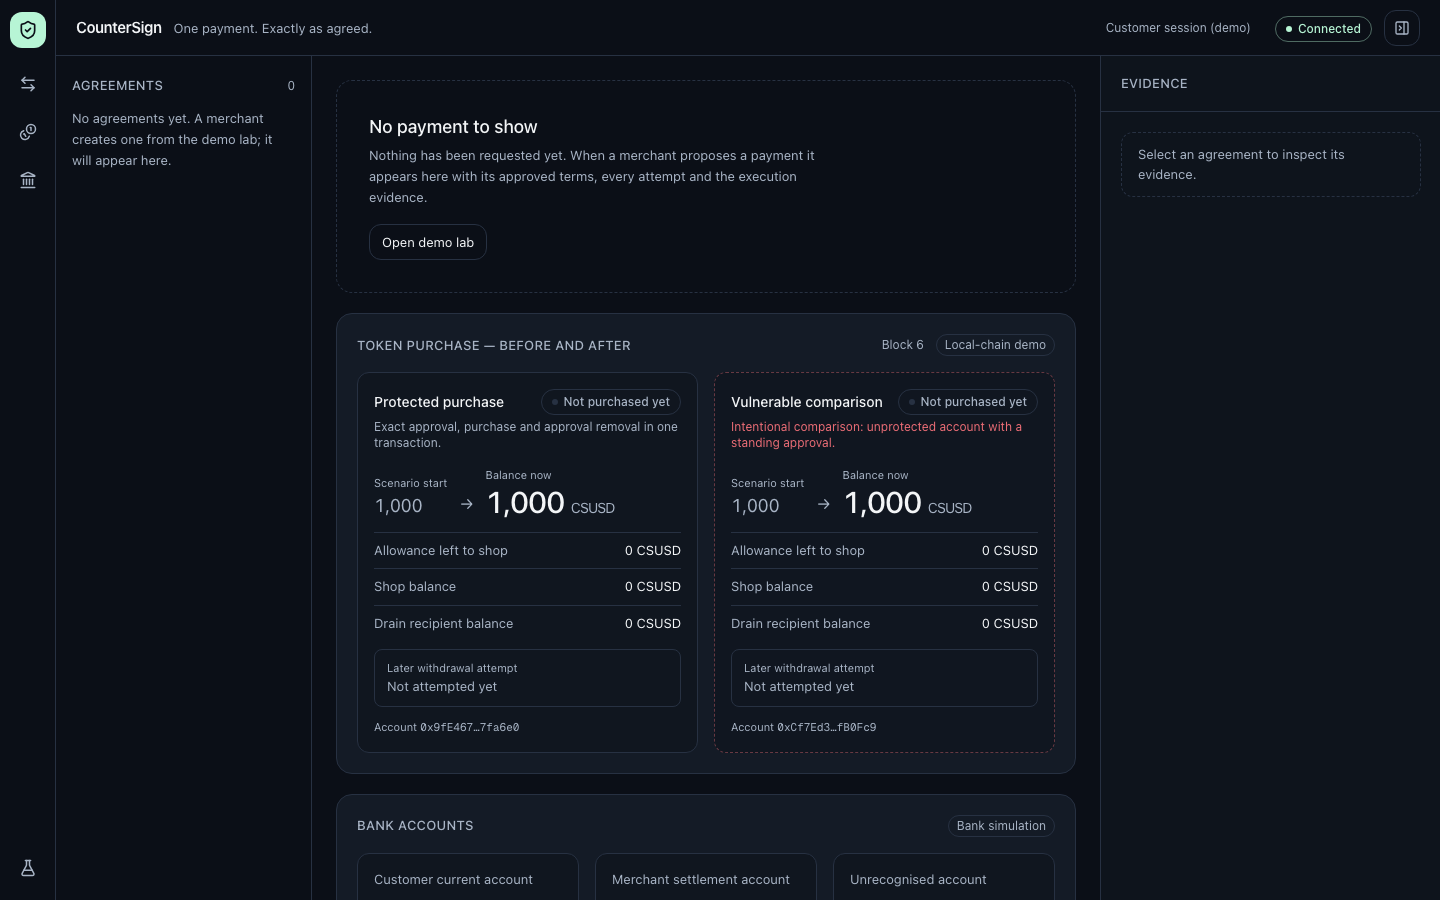
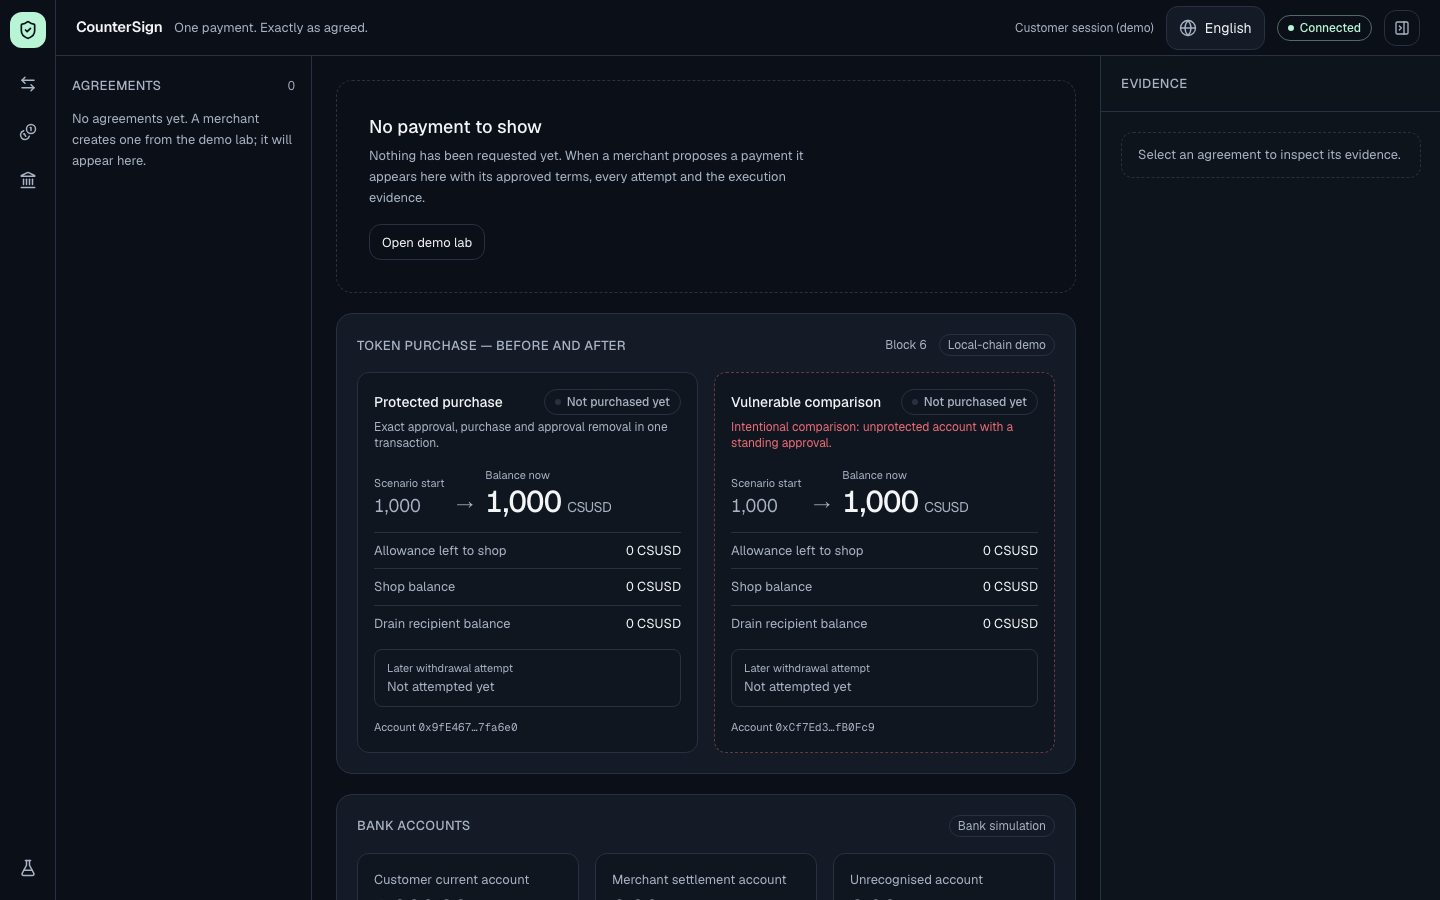
verify: results for main 316138b; expandAll skips dialog triggers

diff --git a/e2e/helpers.ts b/e2e/helpers.ts
@@ -140,8 +140,9 @@ export async function expectUnobscured(page: Page, locator: ReturnType<Page["loc
 /** Open every collapsed disclosure so evidence text becomes readable. */
 export async function expandAll(page: Page) {
   for (let pass = 0; pass < 3; pass++) {
+    // disclosures only: dialog triggers (aria-haspopup, e.g. the language selector) are not evidence;
     // main/body scope keeps the Next.js dev-tools indicator (nextjs-portal) out of it
-    const closed = page.locator('body > :not(nextjs-portal) [aria-expanded="false"]:visible, body > :not(nextjs-portal) details:not([open]) > summary:visible');
+    const closed = page.locator('body > :not(nextjs-portal) [aria-expanded="false"]:not([aria-haspopup]):visible, body > :not(nextjs-portal) details:not([open]) > summary:visible');
     const n = await closed.count();
     if (!n) break;
     for (let i = 0; i < n; i++) await closed.nth(0).click({ timeout: 2000 }).catch(() => {});

diff --git a/e2e/truthful-states.e2e.ts b/e2e/truthful-states.e2e.ts
@@ -106,6 +106,9 @@ test("10 disconnected: offline is shown as disconnected, never as success; recon
   await desk.page.goto("/command"); await ph.page.goto(pair.approvePath);
   await ph.page.getByRole("button", { name: /approve this payment/i }).click();
   await expect.poll(async () => (await getView(id)).state).toBe("approved");
+  // wait until both views have polled the approved state ("Approved" alone is also a static stage label)
+  await expect(ph.page.locator("body")).not.toContainText(/awaiting your approval/i);
+  await expect(desk.page.locator("body")).not.toContainText(/awaiting your approval/i);
   await expect(ph.page.locator("body")).toContainText(/approved/i);
 
   await ph.context.setOffline(true); await desk.context.setOffline(true);

diff --git a/docs-verify/RESULTS.md b/docs-verify/RESULTS.md
@@ -1,20 +1,42 @@
 # CounterSign acceptance results (worker E, independent verification)
 
-Last updated: 2026-11-21 08:30 UTC. `main` tested: `dd3801b` (base commit, stubs only).
+Last updated: 2026-11-21 08:45 UTC. `main` tested: `316138b` (tree = `w/verify` with `origin/main` 316138b merged; only verification files differ).
 
-No run against an implementation yet: at `dd3801b` every port is a `NOT_IMPLEMENTED` stub, so all checks are NOT RUN.
+Server: `pnpm demo` via `bash docs-verify/run.sh` (Next dev server on :3000 + Anvil on :8545, health `chain.available=true, chainId=31337`).
+
+Commands:
+
+- V = `ACCEPTANCE=1 CS_BASE_URL=http://localhost:3000 pnpm exec vitest run tests/acceptance` → 37 passed, 0 failed, 0 skipped
+- P = `BASE_URL=http://localhost:3000 pnpm exec playwright test` → 12 passed (54.0s)
+- `pnpm typecheck` → clean
 
 | # | Check | Result | Evidence | main SHA |
 |---|---|---|---|---|
-| 1 | Approved legitimate bank transfer settles once | NOT RUN | stubs only | dd3801b |
-| 2 | Recipient/amount mutations move no money | NOT RUN | stubs only | dd3801b |
-| 3 | Expired authorization rejected | NOT RUN | stubs only | dd3801b |
-| 4 | Replay/concurrent → one debit | NOT RUN | stubs only | dd3801b |
-| 5 | Merchant/lab capability cannot approve | NOT RUN | stubs only | dd3801b |
-| 6 | Protected crypto purchase completes for agreed amount | NOT RUN | stubs only | dd3801b |
-| 7 | Residual allowance 0; later drain fails | NOT RUN | stubs only | dd3801b |
-| 8 | Vulnerable comparison: same attack succeeds | NOT RUN | stubs only | dd3801b |
-| 9 | Phone/desktop agree with receipts and balances | NOT RUN | placeholder pages | dd3801b |
-| 10 | Failed/pending/disconnected never shown as success | NOT RUN | placeholder pages | dd3801b |
-| 11 | Reset restores deterministic state | NOT RUN | stubs only | dd3801b |
-| 12 | Journey at 1440x900, 1280x800, 390x844, 375 wide without overflow | NOT RUN | placeholder pages | dd3801b |
+| 1 | Approved legitimate bank transfer settles once | PASS | V, 4/4: ledger receipt persisted, customer 100000→90000, merchant +10000, executionCount 1 | 316138b |
+| 2 | Recipient/amount mutations move no money | PASS | V, 9/9: recipient, amount, operation, continuing-permission mutations rejected with field diffs; balances unchanged; no receipt | 316138b |
+| 3 | Expired authorization rejected | PASS | V, 2/2: ttlSeconds 5 waited out, approved and unapproved; no debit | 316138b |
+| 4 | Replay/concurrent → one debit | PASS | V, 3/3: 20 concurrent executes and replay after settlement → one ledger transfer, balance 90000 | 316138b |
+| 5 | Merchant/lab capability cannot approve | PASS | V, 8/8 (merchant/operator/anonymous cookies, body/query/header role claims, forged cookies, forged/absent/tampered/cross-agreement pairing tokens); P, 1/1 (phone without token, forged token, merchant cookies) | 316138b |
+| 6 | Protected crypto purchase completes for agreed amount | PASS | V, 3/3: viem-read customer balance 900 CSUSD, shop +100, on-chain tx receipt status success | 316138b |
+| 7 | Residual allowance 0; later drain fails | PASS | V, 1/1: viem-read allowance 0; drain executed and reverted; balance still 900 | 316138b |
+| 8 | Vulnerable comparison: same attack succeeds | PASS | V, 1/1: vulnerable account left with standing allowance; drain succeeds, balance read from EVM drops | 316138b |
+| 9 | Phone/desktop agree with receipts and balances | PASS | P, 3/3 (bank at 1440x900+390x844 and 1280x800+375x667, crypto at 1440x900+390x844): both views show the persisted ledger transfer id / tx hash and balances from `/api/state`, also after reload | 316138b |
+| 10 | Failed/pending/disconnected never shown as success | PASS | P, 7/7: awaiting, approved-not-executed, rejected mutation, expired, declined, offline (both views), offline approve; no `/api/*` in any service-worker cache | 316138b |
+| 11 | Reset restores deterministic state | PASS | V, 3/3: bank and chain state identical after two resets; agreements cleared | 316138b |
+| 12 | Journey at 1440x900, 1280x800, 390x844, 375 wide without overflow | PASS | P, 4/4 (the three journeys + static pages): scrollWidth ≤ viewport, critical details unobscured, zero console/page errors. Screenshots in `docs-verify/screenshots/` | 316138b |
+
+## Limits of this evidence
+
+- Chromium only, emulated viewports. No physical iPhone, no Safari/WebKit, no installed-PWA run.
+- Run against the Next dev server on localhost, not a production build or the hosted preview.
+- Screenshots opened and inspected by eye: `phone-375x667-1-awaiting`, `phone-390x844-disconnected`, `desktop-1440x900-crypto-3-settled`, `desktop-1440x900-disconnected`. The rest are only covered by the automated overflow/obscured checks.
+- Crypto journey in the browser runs at one size pair only (1440x900 + 390x844).
+
+## Observation (not a failing check)
+
+- `phone-390x844-disconnected.png`: when Approve is tapped while offline, the button shows a "Sending approval" spinner under the Disconnected banner. It is not rendered as success and the server stays `awaiting_approval`, so check 10 passes.
+
+## Test corrections made during verification (no assertion removed)
+
+- `expandAll` clicked every `aria-expanded=false` control, which opened the language-selector dialog over the phone receipt. It now skips dialog triggers (`aria-haspopup`); the transfer-id assertion is unchanged.
+- Success detection is sentence-aware so "Nothing is paid until you approve" is not counted as a success claim.
